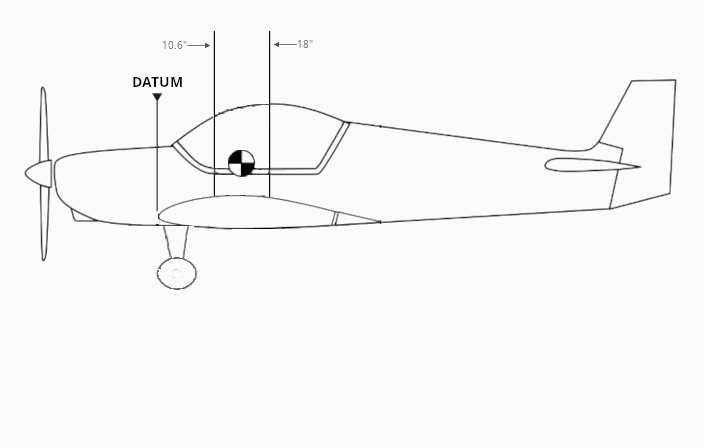
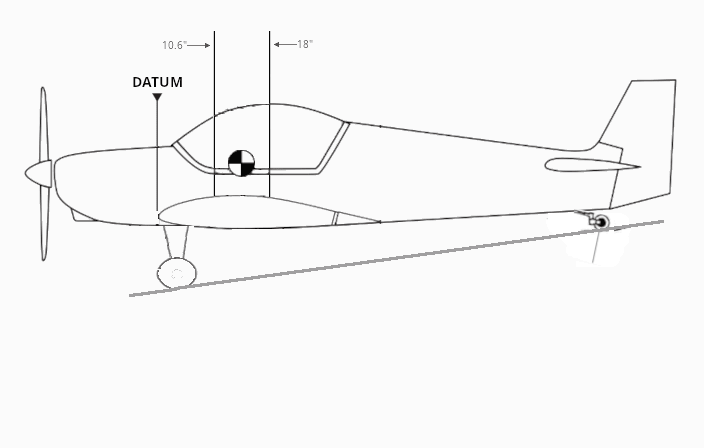
added vertical scrolling for smaller screens

diff --git a/renderer/js/renderer.js b/renderer/js/renderer.js
@@ -106,10 +106,6 @@ var activeCanvas;
 function setBoundaryLabels() {
 	
 	switch (currentview) {
-		case "ch650":
-			weightMaxFloats.innerHTML = valData.maxfloats;
-			maxFloatsDashes.innerHTML = "- Max floats lb -----------------------------------------";
-			break;
 		case "rv9":
 			usemetric = false;
 			weightMaxFloats.innerHTML = "";
@@ -123,16 +119,16 @@ function setBoundaryLabels() {
 	}
 
 	weightMin.innerHTML = valData.mingross;
-	weightNosegearMin.innerHTML = currentview === "ch650" ? valData.ngstart : "";
 	weightMaxGross.innerHTML = valData.maxgross;
 	maxGrossWeight.value = valData.maxgross;
-
+	
 	if (currentview === "ch650") {
+		maxFloatsDashes.innerHTML = "&nbsp;Max floats --------------------------------------------";
+		maxGrossDashes.innerHTML = "&nbsp;&nbsp;Max gross ---------";
+		weightNosegearMin.innerHTML = valData.ngstart;
 		if (usemetric) {
 			// adjust attributes for metric units
 			weightMaxFloats.innerHTML = valData.maxfloats;  
-			maxGrossDashes.innerHTML = "- Max gross kg ------";
-			maxFloatsDashes.innerHTML = "- Max floats kg -----------------------------------------";
 			momentMin.className = "momentMinMetric";
 			momentMax.className = "momentMaxMetric";
 			weightAxis.className = "weightAxisMetric";
@@ -144,7 +140,6 @@ function setBoundaryLabels() {
 		} else  {
 			// adjust attributes for imperial units
 			weightMaxFloats.innerHTML = valData.maxfloats;
-			maxGrossDashes.innerHTML = "- Max gross lb ------";
 			momentMin.className = "momentMinImperial";
 			momentMax.className = "momentMaxImperial";
 			weightAxis.className = "weightAxisImperial";
@@ -224,8 +219,8 @@ function activateView() {
 	nw.innerHTML = nwtext;
 	
 	if (hideWL) {
-		rightwl.setAttribute("style", "visibility:hidden;");
-		leftwl.setAttribute("style", "visibility:hidden;");
+		rightwl.setAttribute("style", "visibility:hidden;height:0px;");
+		leftwl.setAttribute("style", "visibility:hidden;height:0px;");
 	}
 	
 	electronAPI.logentry(logEntryType.information, `Aircraft selected: ${currentview}`);

diff --git a/main.js b/main.js
@@ -89,10 +89,15 @@ const template = [
     {
         label: "Select Aircraft", 
         submenu: [
-            {label: "Zenith ch601xl/ch650",
+            {label: "Zodiac ch601xl/ch650 Tricycle",
                 type: "radio",
                 checked: getAircraftChecked("ch650"),
-                click: () => mainWindow.webContents.send("acselect", "ch650")
+                click: () => mainWindow.webContents.send("acselect", "ch650"),
+            },  
+            { label: "Zodiac ch601xl/ch650 Taildragger",
+                type: "radio",
+                checked: getAircraftChecked("ch650td"),
+                click: () => mainWindow.webContents.send("acselect", "cn650td")
             },
             {label: "Zenith ch701",
                 type: "radio",
@@ -151,7 +156,7 @@ function createWindow () {
     wh = pd.workAreaSize;
     var dtoggled = false;
 
-    var w = 830;
+    var w = 840;
     var h = wh.height - 40; 
     if (isDebug) {
         w = wh.width;

diff --git a/renderer/css/zodiacwb.css b/renderer/css/zodiacwb.css
@@ -4,7 +4,7 @@ body {
     top: -49px;
 	left: -14px;
 	overflow-x: hidden;
-	overflow-y: hidden;
+	overflow-y: scroll;
     position: absolute;
 	background-color: white;
 	-webkit-print-color-adjust: exact;
